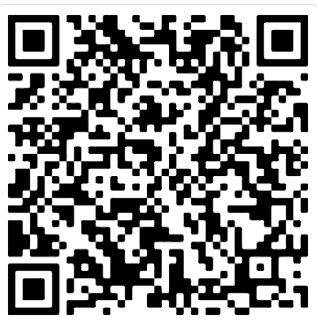
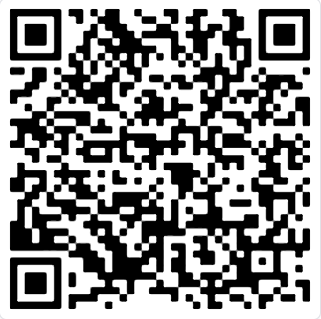
Update Qr && Link download

diff --git a/src/components/Home/HeroSection.jsx b/src/components/Home/HeroSection.jsx
@@ -40,7 +40,7 @@ const HeroSection = () => (
                 Tải app để khám phá, đặt trải nghiệm, nhận ưu đãi độc quyền!
               </p>
               <a
-                href="https://expo.dev/accounts/phongnguyenthanh04203/projects/LocalExplorer/builds/baee485c-417d-41f7-bbd0-c9bb175634fa"
+                href="https://expo.dev/accounts/phongnguyenthanh04203/projects/LocalExplorer/builds/ef31aba0-11cf-4ee4-9389-077e11bfe2ea"
                 target="_blank"
                 rel="noopener noreferrer"
                 className="flex items-center justify-center bg-gradient-to-r from-green-500 to-green-600 text-white px-5 sm:px-7 py-2.5 sm:py-3 rounded-lg font-bold text-base shadow-lg hover:scale-105 transition-transform"

diff --git a/src/components/Home/Footer.jsx b/src/components/Home/Footer.jsx
@@ -7,7 +7,7 @@ import {
 } from "lucide-react";
 import images from "../../assets/images";
 
-const androidAppUrl = "https://expo.dev/accounts/phongnguyenthanh04203/projects/LocalExplorer/builds/baee485c-417d-41f7-bbd0-c9bb175634fa";
+const androidAppUrl = "https://expo.dev/accounts/phongnguyenthanh04203/projects/LocalExplorer/builds/ef31aba0-11cf-4ee4-9389-077e11bfe2ea";
 
 const travelerLinks = [
   { label: "Download App", href: androidAppUrl },
